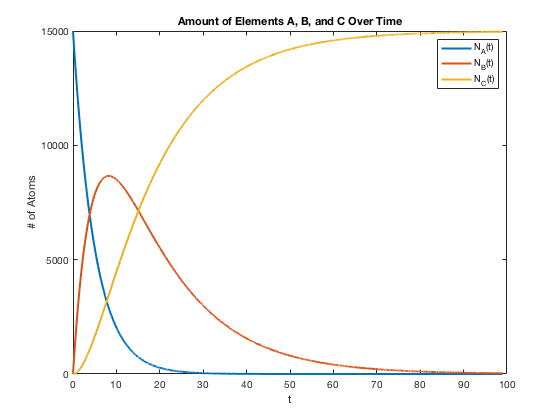
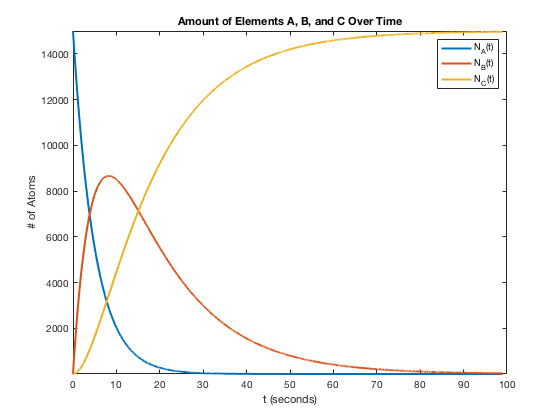
minor changes

diff --git a/decay_chains.m b/decay_chains.m
@@ -4,7 +4,7 @@ x = [0:0.01:99]
 y1 = 15000*exp(-0.2*x)
 y2 = ((15000*0.2)/(1/15 - 1/5)) * (exp(-0.2*x) - exp(-(1/15)*x))
 y3 = -7500*exp(-0.2*x) .* (3 * exp((2/15) * x) - 1) + 15000
-semilogy(x,y1, 'LineWidth', 2)
+plot(x,y1, 'LineWidth', 2)
 ylim([1 15000])
 hold on
 plot(x,y2, 'LineWidth', 2)
@@ -13,4 +13,4 @@ hold off
 legend('N_{A}(t)','N_{B}(t)','N_{C}(t)')
 title("Amount of Elements A, B, and C Over Time")
 ylabel('# of Atoms')
-xlabel('t')
+xlabel('t (seconds)')
